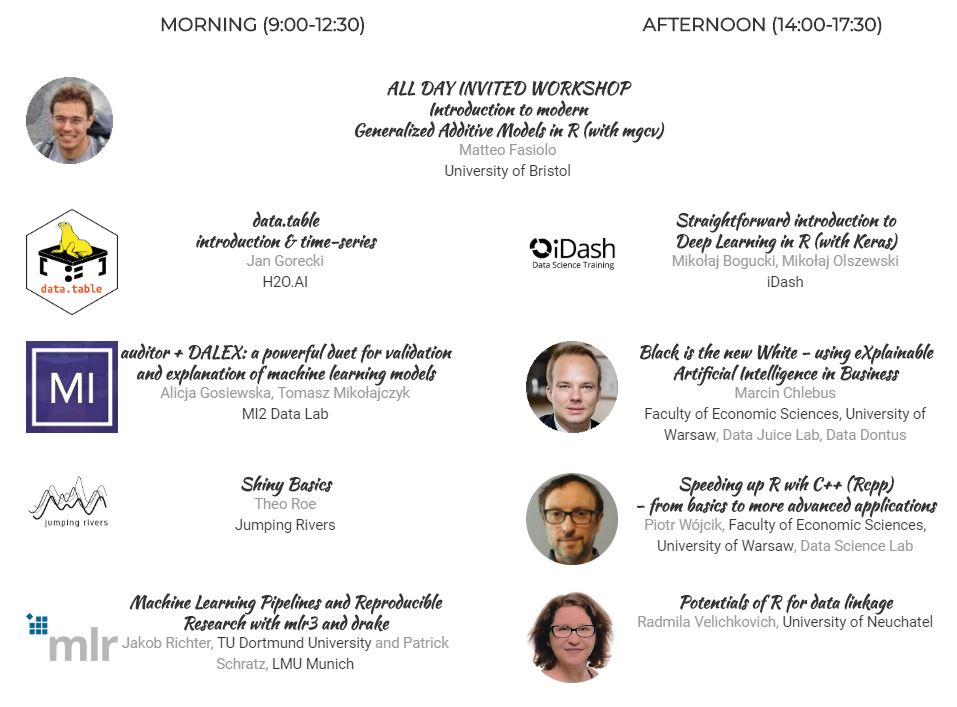
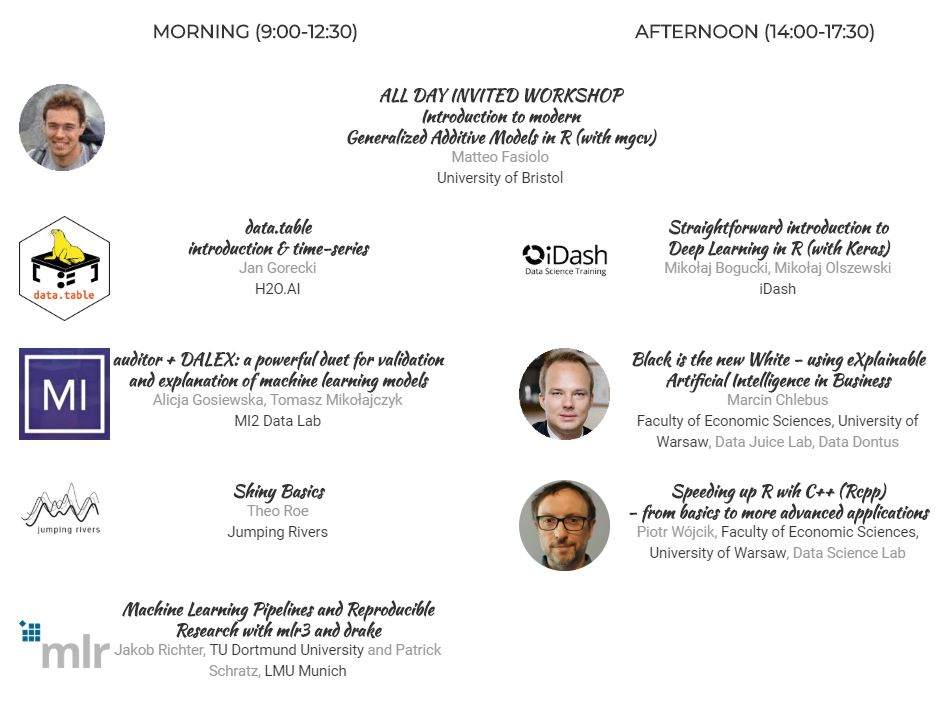
remove one workshop from listed potential workshops

diff --git a/_posts/2019-06-09-WhyR-2019-Keynotes-Workshops-Announced.md b/_posts/2019-06-09-WhyR-2019-Keynotes-Workshops-Announced.md
@@ -63,10 +63,9 @@ This path focuses on tools used in the interpretative machine learning to unders
 
 - [Straightforward introduction to Deep Learning in R (with Keras)](https://github.com/WhyR2019/workshops/tree/master/keras) Mikołaj Olszewski and Mikołaj Bogucki [iDash](https://idash.pl/)
 - [Shiny Basics](https://github.com/WhyR2019/workshops/tree/master/shiny) Theo	Roe, [Jumping Rivers](https://www.jumpingrivers.com/)
-- [High Performance Programming Tools with R (NVIDIA graphic cards needed)](https://github.com/WhyR2019/workshops/tree/master/high_performance)
 - [data.table introduction & time-series](https://github.com/WhyR2019/workshops/tree/master/datatable) Jan Gorecki, [H2O.AI](https://www.h2o.ai/)
 - [Speeding up R wih C++ (Rcpp) - from basics to more advanced applications](https://github.com/WhyR2019/workshops/tree/master/rcpp) Piotr WóJcik, [Faculty of Economic Sciences, University of Warsaw](https://www.wne.uw.edu.pl/)
-- [Potentials of R for data linkage](https://github.com/WhyR2019/workshops/tree/master/data_linkage) Radmila 	Velichkovich, [University of Neuchatel](https://www.unine.ch/)
+- [Machine Learning Pipelines and Reproducible Research with mlr3 and drake](https://mlr3.mlr-org.com/) Jakob Richter (Technical University of Dortmund) and Patrick Schratz (LMU Munich).
 
 
 # Register!
